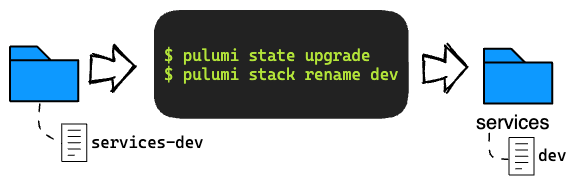
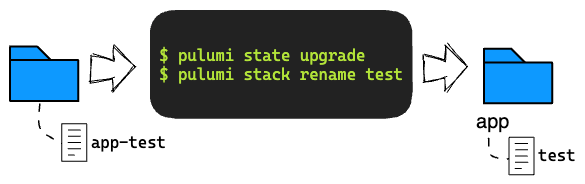
Another pass: more positive
Takes another pass over the content of the blog post.
Replaces the general impression of "things were broken"
with "here's how things are better."
Talks about features in a consistent way,
covering them in the context of self-managed and service backends both.

diff --git a/themes/default/content/blog/project-scoped-stacks-in-self-managed-backend/index.md b/themes/default/content/blog/project-scoped-stacks-in-self-managed-backend/index.md
@@ -11,79 +11,104 @@ tags:
     - pulumi-releases
 ---
 
-Pulumi's Self-Managed Backend has long been constrained in that
-it only recognized stacks, and didn't have a concept of projects.
-This made it less flexible and occasionally required involved workarounds.
-Indeed, we heard from many of you that this limitation got in your way.
+At Pulumi, we aim to offer our users the best-in-class IaaC experience.
+We recently shipped a series of impactful enhancements to our Service backend
+(check out [Pulumi Deployments](/blog/pulumi-deployments/) if you haven't already!),
+and we have more exciting features coming soon.
 
-We've listened to your feedback,
-and we're very excited to announce that we've added
-support for **Project-Scoped Stacks** in Pulumi's Self-Managed backend!
+While our Service backend remains the best place to store your Pulumi state,
+we also offer a Self-Managed backend for those who prefer to do it themselves.
+We're committed to giving you the best experience regardless of which backend you use,
+so we've been hard at work improving the Self-Managed backend as well.
+
+Therefore, we're very excited to announce that with the latest release of Pulumi,
+we have added support for **Project-Scoped Stacks** in our Self-Managed backend.
 
 <!--more-->
 
-This change makes the Self-Managed Backend consistent with how
-the Pulumi Service Backend operates and scopes stacks.
+## Background
 
-## What are State Backends?
+This section goes over some of the background necessary
+to understand project-scoping and why it's important.
+Feel free to skip ahead to the next section if you're already familiar with this.
 
-Each [Pulumi stack](/docs/intro/concepts/stack/) has its own metadata about
-your infrastructure so it can manage your cloud resources.
-This metadata is called [_state_](/docs/intro/concepts/state/)
-and it is stored in a _backend_ of your choosing:
+### Projects and stacks
+
+Pulumi [*projects*](/docs/intro/concepts/project/) are a unit of organization.
+A project holds the code and configuration for your infrastructure,
+and can be used to deploy multiple stacks.
+A [*stack*](/docs/intro/concepts/stack/) is a single,
+isolated instance of your infrastructure.
+
+For example, you might have an "app" project for your application,
+deploying to the "test" and "prod" stacks.
+
+![Projects and stacks](projects-and-stacks.png)
+
+### What's a state backend?
+
+Each stack tracks metadata about your infrastructure
+so it can manage your cloud resources.
+This metadata is called [*state*](/docs/intro/concepts/state/)
+and it is stored in a *backend* of your choosing:
 **Service** or **Self-Managed**.
 
-The **Service** Backend is hosted at [`app.pulumi.com`](https://app.pulumi.com)
-or [on your own server](https://www.pulumi.com/product/self-hosted/),
-and provides the best combination of usability, safety, and security for most users.
+The **Service** backend is hosted at [`app.pulumi.com`](https://app.pulumi.com)
+or [on your own server](https://www.pulumi.com/product/self-hosted/).
+It provides the best combination of usability, safety, and security for most users.
 
-The **Self-Managed** Backend stores state in a JSON file,
+The **Self-Managed** backend stores state in a JSON file,
 deferring to you to manage persistence of this information.
 You can store it in AWS S3, Azure Blob Store, Google Cloud Storage,
 a system such as Minio or Ceph with an API compatible with AWS S3,
 or on your local filesystem.
-Using this backend trades reliability and convenience of the Service Backend
+Using this backend trades reliability and convenience of the Service backend
 for additional control over where the information is stored.
 
-![State and backends](whats-a-backend.png)
+![What's a state backend](whats-a-backend.png)
 
-See [Deciding On a State Backend](/docs/intro/concepts/state/#deciding-on-a-state-backend)
-for more on how to choose a state backend.
+If you're unsure of which backend to use,
+see [Deciding On a State Backend](/docs/intro/concepts/state/#deciding-on-a-state-backend).
 
-Up until now, there was a discrepancy between how
-the Service backend and self-managed backends stored state for a Pulumi stack:
-the Service backend stores stack information scoped by organization and project
-(e.g., `myorg/myproject/dev`),
-whereas the self-managed backend performed no scoping.
+### Project-scoped stacks
 
-![Project scoping](whats-project-scoping.png)
+Depending on your needs, you can have several Pulumi projects.
+For example, you might have a "net" project to set up an AWS VPC,
+a "k8s" project to set up a Kubernetes cluster deployed to it,
+and an "app" project to build and deploy your application to the cluster.
+Each of these projects will have their own stacks, e.g. "test" and "prod".
 
-In practice, this meant that you could not re-use stack names like "dev" or "prod"
-between different Pulumi projects stored in the same self-managed backend.
-You had to work around this by manually writing unique, project-qualified stack names
-(e.g. "myproject-dev", "otherproject-dev").
+The Pulumi Service backend scopes stacks to the project they belong to,
+so we can re-use the names "test" and "prod" across different projects.
+
+![Project-scoped stacks in Service backend](service-project-scoped-stack.png)
+
+This was not the case for the Self-Managed backend,
+where stack names were global across all projects.
+To work around this, users resorted to qualifying stack names
+in the form `<project>-<stack>` when using the Self-Managed backend.
+
+![Multiple qualified stacks in a self-managed backend](self-managed-unscoped-stacks.png)
 
 We're pleased to announce that such workarounds are no longer necessary!
 
-## Project-Scoped Stacks in Self-Managed Backends
+## Project-scoped stacks in self-managed backends
 
 With the latest release of Pulumi,
-we've added support for project-scoped stacks to the Self-Managed Backend.
-Stacks created in new or empty self-managed backends
-will now be scoped under the project they belong to.
+we've added support for project-scoped stacks to the Self-Managed backend.
+Stacks created in new or empty self-managed backends will automatically
+use the new project-scoped layout.
 
-You no longer have to include the project name in the name of the stack.
-You can create a new project and continue to use the short, simple names
-that you're used, such as "dev", "staging", "production", etc.
-across various projects, without risk of conflict with other projects.
+With this change,
+you can now use stack names like "test" and "prod" across your projects
+without risk of conflict&mdash;the same way you do with the Service backend.
 
-![Project-scoped self-managed stacks](project-scoped-self-managed-stacks.png)
+![Project-scoped stacks in a self-managed backend](self-managed-project-scoped-stack.png)
 
 ### Upgrading existing backends
 
-As mentioned in the previous section,
-only stacks created in new or empty self-managed backends
-will be scoped to their projects.
+Only stacks created in new or empty self-managed backends
+will scope stacks to projects.
 Existing backends will continue to operate as they do today.
 
 If you have an existing self-managed backend that you'd like to upgrade
@@ -100,39 +125,61 @@ Please confirm that this is what you'd like to do by typing `yes`:
 ```
 
 {{% notes type="info" %}}
-Once a self-managed backend is upgraded,
-older versions of the Pulumi CLI will be unable to access this backend.
+Once stacks in a self-managed backend are upgraded,
+older versions of the Pulumi CLI will be unable to access those stacks.
 This change cannot be reverted.
 {{% /notes %}}
 
-If you previously included the project name in your stack names
-as a way of making them unique across the self-managed backend,
-you can use the `pulumi stack rename` command to clean up these names
-after the upgrade.
+#### Cleaning up old stack names
+
+If you previously qualified stack names with the project name to avoid conflicts,
+you can use the `pulumi stack rename` command to clean up these names after the upgrade.
 
 ```
-$ pulumi stack rename --stack myproject-dev dev
+$ pulumi stack rename --stack app-test test
 ```
 
 ![Upgrading and renaming stacks](upgrade-and-rename.png)
 
-## Referencing Project-Scoped Stacks
+## Referencing stacks in the CLI
 
-Project-scoped stacks in self-managed backends
-are scoped under a virtual organization named "organization".
+Many commands in the Pulumi CLI expect a stack name to be specified.
+These commands accept a fully-qualified stack name in the form:
+
+    <org>/<project>/<stack>
+
+Where, `<org>` is the organization name,
+`<project>` the project name,
+and `<stack>` the stack name.
+
+They also accept one of the following shorthand forms
+if we're inside the project directory:
+
+    <org>/<stack>
+    <stack>
+
+For instance, given a stack "prod" inside the "app" project,
+the following are all valid ways to refer to it:
+
+    my-org/app/prod
+    my-org/prod      // if inside the app directory
+    prod             // if inside the app directory
+
+With the latest release of Pulumi, the above is true for both
+the Service backend and the Self-Managed backend.
+
+### Referencing self-managed project-scoped stacks
+
+All projects in a self-managed backend
+are placed under a virtual organization named "organization".
 This value is constant and cannot be changed.
-This allows for a consistent stack identity format
-across both the Service Backend and the Self-Managed Backend.
 
-For example, with self-managed backends,
-you can refer to a fully-qualified stack with `organization/my-project/my-stack`.
-If the currently selected project is 'my-project',
-you can also use the shorthands `organization/my-stack` and `my-stack`&mdash;just
-like the Service Backend.
+Repeating the above examples with a self-managed backend,
+we can use any of the following forms to refer to the same stack:
 
-    organization/my-project/my-stack
-    organization/my-stack  // if inside my-project
-    my-stack               // if inside my-project
+    organization/app/prod
+    organization/prod      // if inside the app directory
+    prod                   // if inside the app directory
 
 ## Availability
 
